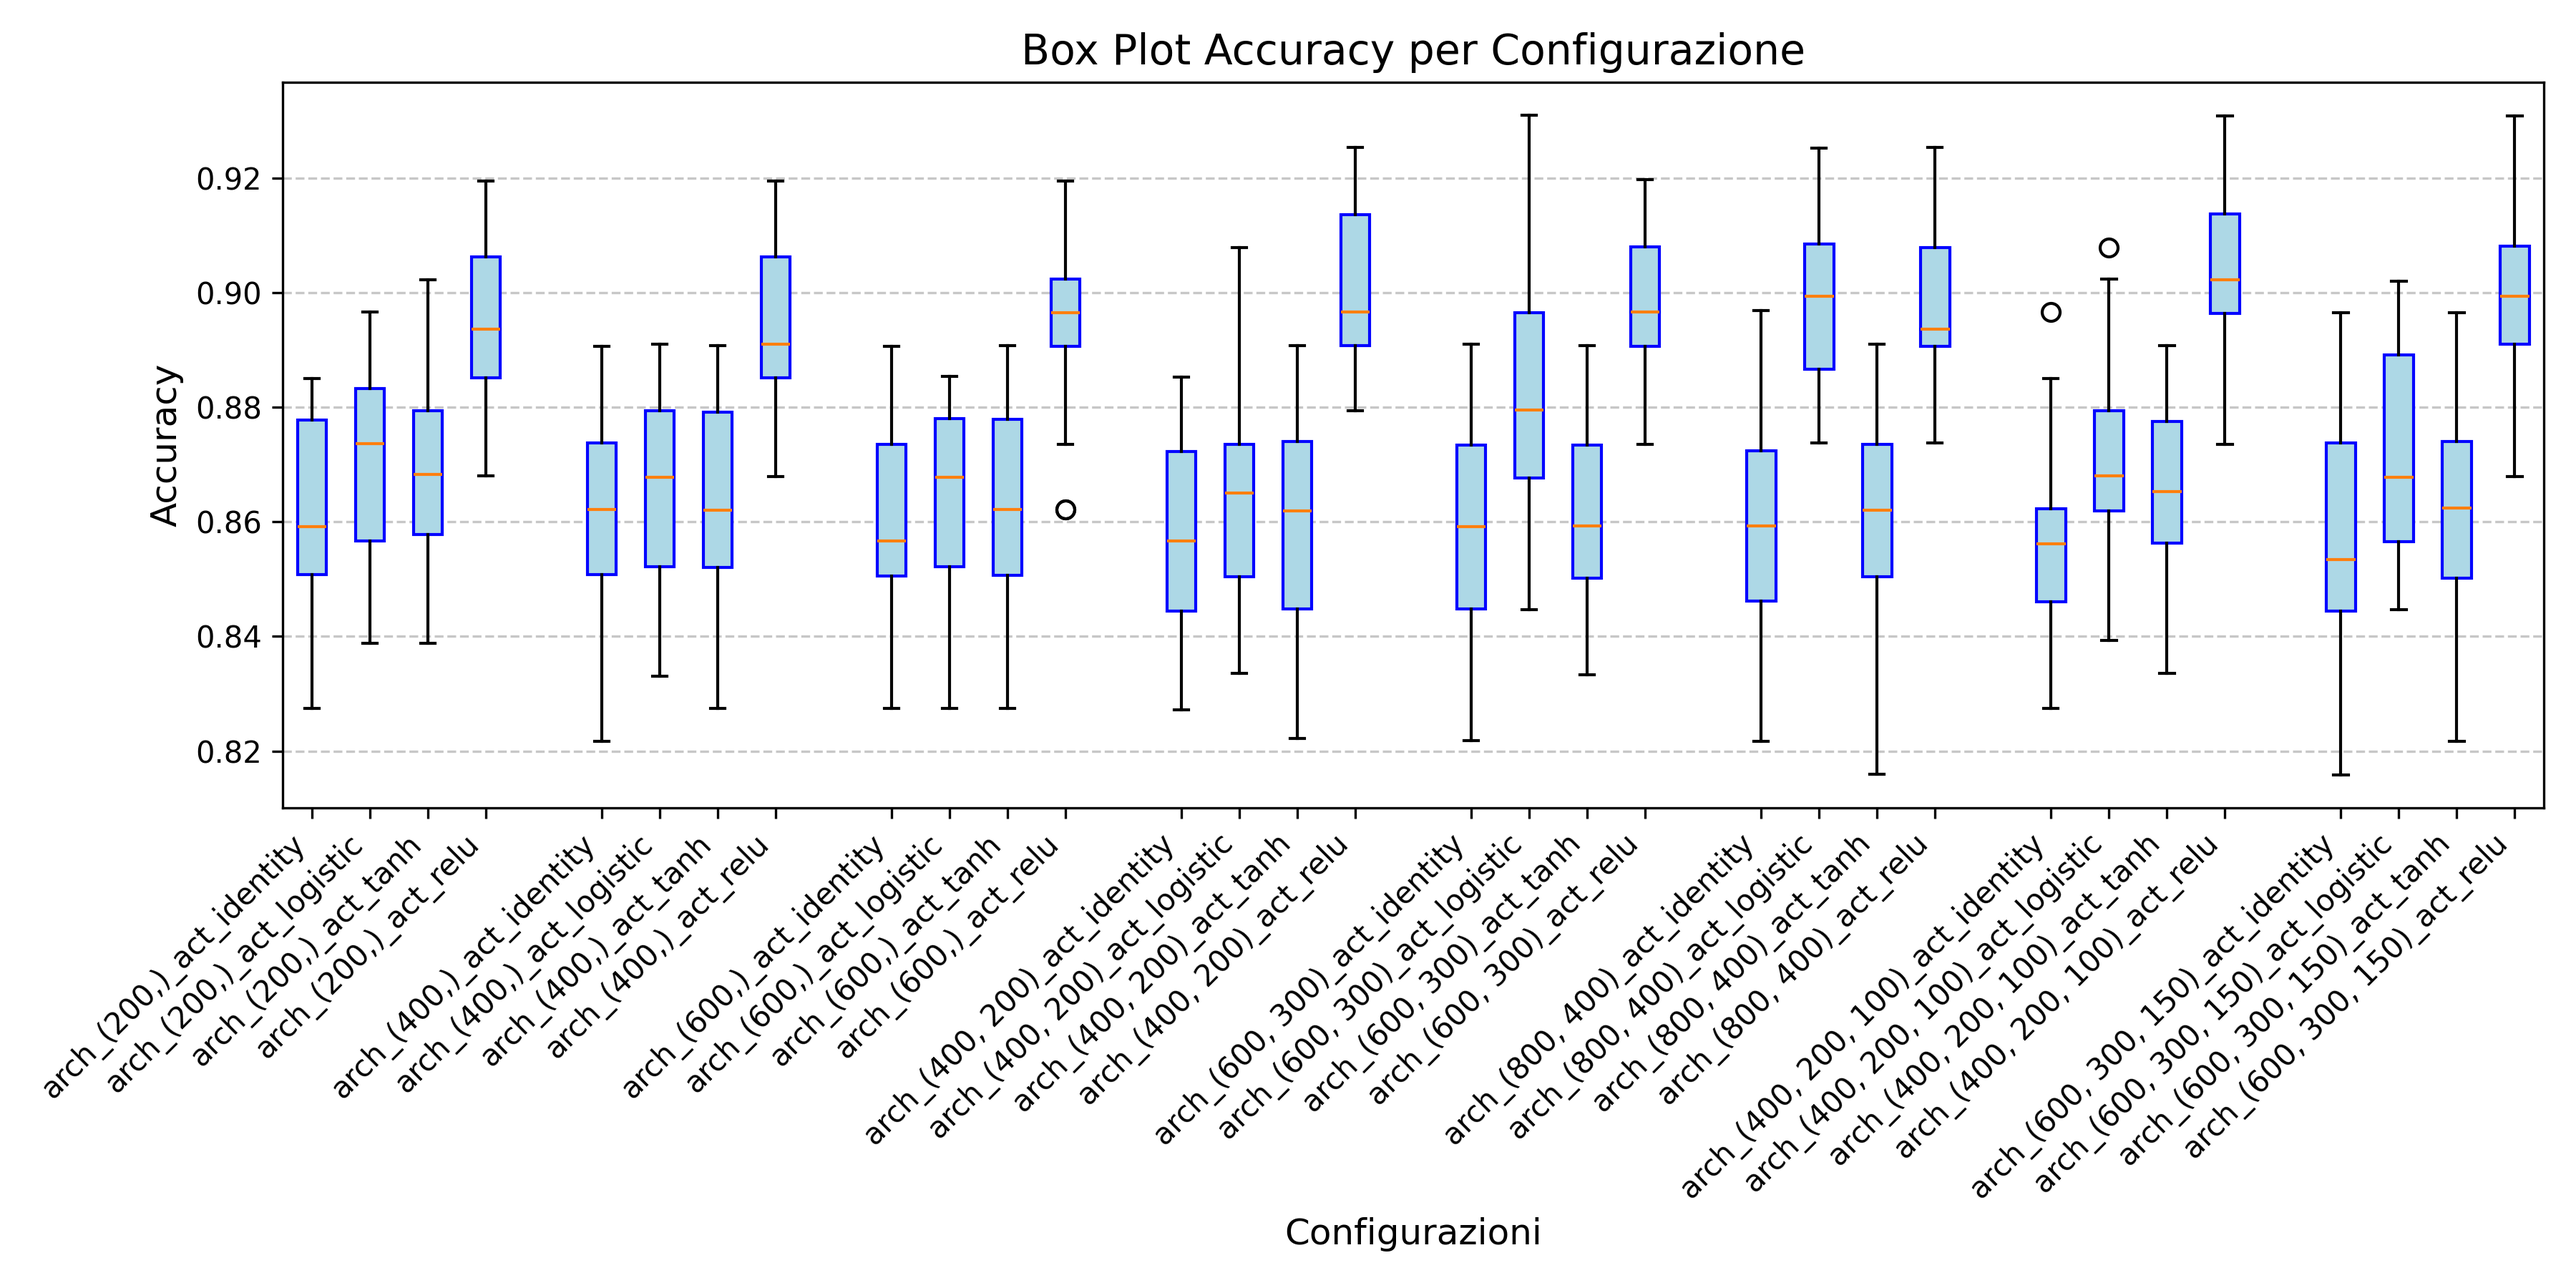
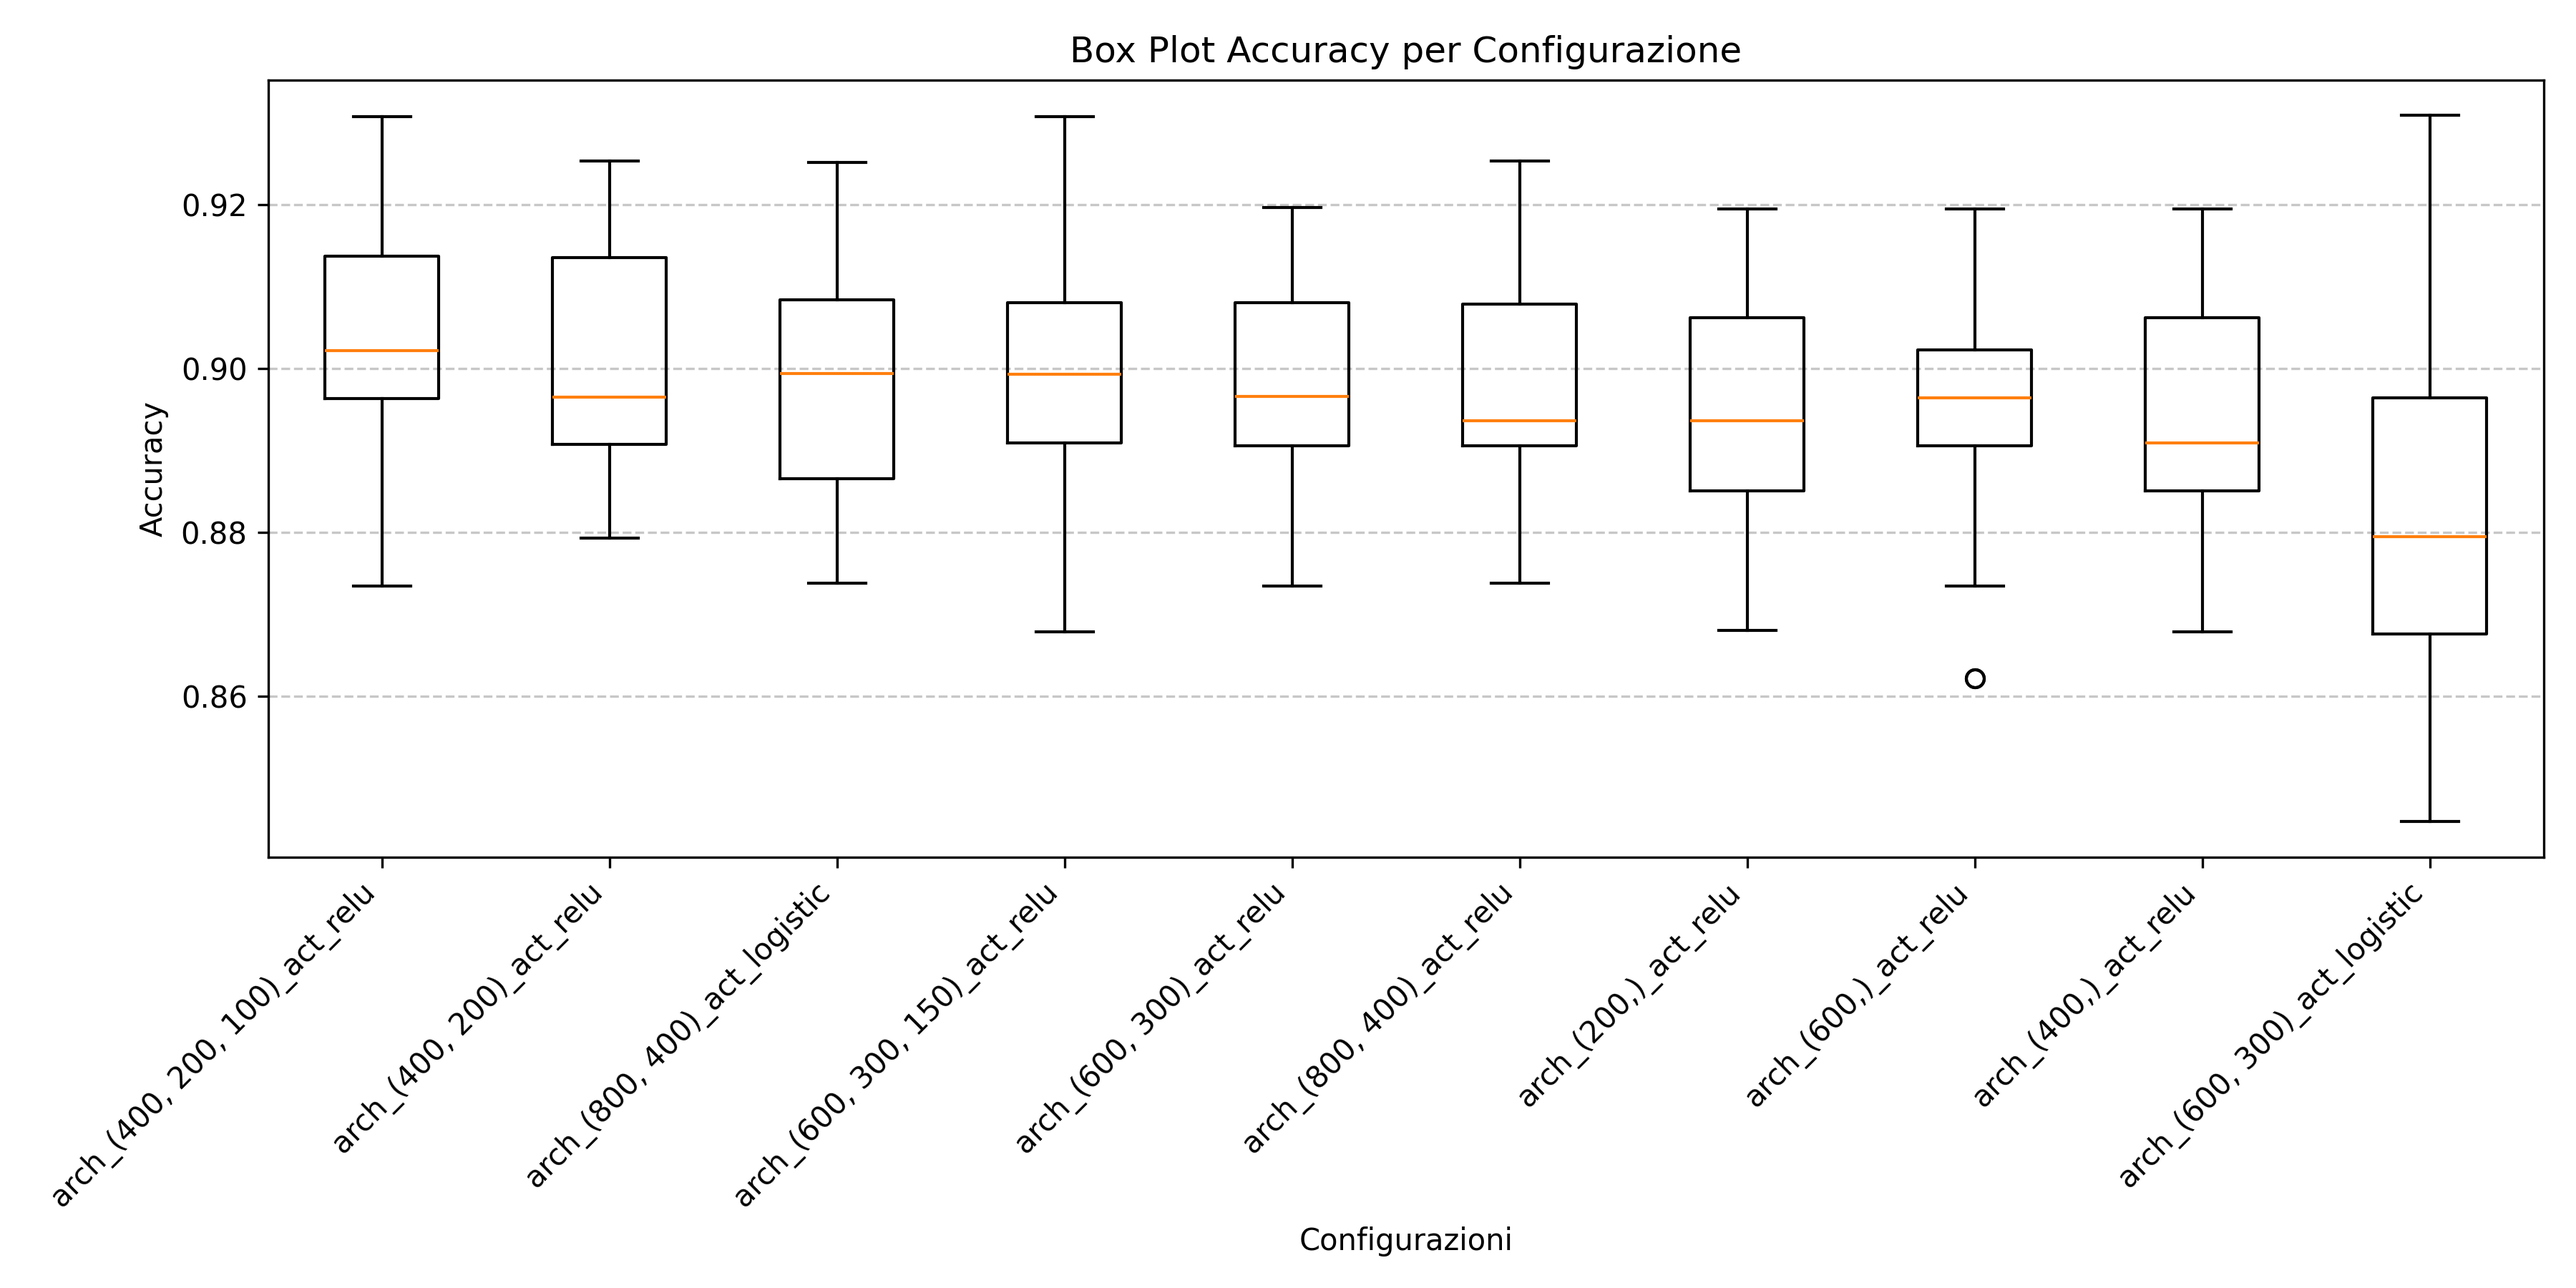
top 10 config extraction + aggiustamento grafici

diff --git a/Tesina 3/personal_lib/visualization.py b/Tesina 3/personal_lib/visualization.py
@@ -373,91 +373,64 @@ def plot_cv_prediction_stability(y_true_list, y_pred_list, n_runs=30, scenario =
 
 #============ OTHER SCENARIOS PLOTS ============
 
-import matplotlib.pyplot as plt
-
-def plot_configs_box_plot(results: Dict, scenario="_", save_path="_accuracy_boxplot", title="Box Plot Accuracy per Configurazione"):
+def plot_configs_box_plot(results : Dict,scenario ="_",save_path ="_accuracy_boxplot", title="Box Plot Accuracy per Configurazione"):
     """
-    Grafica i box plot dell'accuracy con uno spazio ogni 4 configurazioni
+    Grafica i box plot dell'accuracy di ogni configurazione
     """
     configs = []
     test_scores = []
 
     for config, cv_logger in results.items():
+
         configs.append(config)
-        test_scores.append(cv_logger.test_scores)
+        test_score = cv_logger.test_scores
+        test_scores.append(test_score)
 
-    # Aggiunge uno spazio ogni 4 tick
-    positions = []
-    current_pos = 1  
-    for i in range(len(configs)):
-        # Ogni 4 elementi aggiunge uno spazio extra
-        if i > 0 and i % 4 == 0:
-            current_pos += 1
-        positions.append(current_pos)
-        current_pos += 1
-    
+    plt.figure(figsize=(12,6))
 
-    plt.figure(figsize=(12, 6))
+    plt.boxplot(test_scores)
 
-    # Usiamo il parametro 'positions' per dire a matplotlib dove disegnare i box
-    plt.boxplot(test_scores, positions=positions, patch_artist=True, 
-                boxprops=dict(facecolor='lightblue', color='blue'))
+    plt.xticks(range(1,len(configs)+1), configs, rotation=45, ha='right')
 
-    # Allineiamo i tick alle nuove posizioni calcolate
-    plt.xticks(positions, configs, rotation=45, ha='right')
-
-    plt.title(title, fontsize=14)
-    plt.xlabel('Configurazioni', fontsize=12)
-    plt.ylabel('Accuracy', fontsize=12)
+    plt.title(title)
+    plt.xlabel('Configurazioni')
+    plt.ylabel('Accuracy')
     plt.grid(axis='y', linestyle='--', alpha=0.7)
 
     plt.tight_layout() 
-    plt.savefig("Immagini/" + scenario + "/" + save_path, dpi=300)
+    plt.savefig("Immagini/"+scenario+"/"+save_path, dpi=300)
     plt.show()
 
-
-
-def plot_configs_exec_time(results: Dict, scenario="_", save_path="_exec_time", title="Tempi di Esecuzione per Configurazione"):
+def plot_configs_exec_time(results : Dict, scenario ="_",save_path ="_exec_time",title ="Tempi di Esecuzione pe Configurazione"):
     """
-    Grafica i tempi di esecuzione con uno spazio ogni 4 configurazioni.
+    Grafica i tempi di esecuzione di ogni configurazione
     """
+
     exec_times = []
     configs = []
 
     for config, cv_logger in results.items():
+
         configs.append(config)
         summary = cv_logger.get_summary()
-        exec_times.append(summary['total_time'])
+        exec_time = summary['total_time']
 
-    # Aggiunge uno spazio ogni 4 tick
-    indices = []
-    current_pos = 0
-    for i in range(len(configs)):
-        # Ogni 4 elementi aggiunge uno spazio extra
-        if i > 0 and i % 4 == 0:
-            current_pos += 1 
-        indices.append(current_pos)
-        current_pos += 1
-    # -----------------------------------
+        exec_times.append(exec_time)
 
-    plt.figure(figsize=(12, 6)) 
-    
+    plt.figure(figsize=(10,6))
     dynamic_font_size = max(6, min(12, 120 / len(configs)))
-    
-    # Usa 'indices' invece di 'configs' per posizionare le barre
-    bars = plt.bar(indices, exec_times, color='mediumseagreen', edgecolor='black', width=0.8)
-    
-    plt.bar_label(bars, padding=3, fmt='%.2f', fontsize=dynamic_font_size, fontweight='bold')
+    bars = plt.bar(configs,exec_times, color='mediumseagreen', edgecolor='black')
+    plt.bar_label(bars,padding=3, fmt='%.2f', fontsize=dynamic_font_size, fontweight='bold')
 
-    plt.title(title, fontsize=14)
+    plt.title("Tempo medio di esecuzione per configurazione", fontsize=14)
     plt.xlabel("Configurazioni", fontsize=12)
     plt.ylabel("Tempo di esecuzione (sec)", fontsize=12)
 
-    # Imposta i tick nelle posizioni calcolate con i nomi delle configurazioni
-    plt.xticks(indices, configs, rotation=45, ha="right", fontsize=dynamic_font_size)
+    plt.xticks(rotation=45, ha="right")
+
 
     plt.tight_layout()
-    plt.savefig("Immagini/" + scenario + "/" + save_path, dpi=300)
+    plt.savefig("Immagini/"+scenario+"/"+save_path, dpi=300)
     plt.show()
 
 

diff --git a/Tesina 3/personal_lib/utils.py b/Tesina 3/personal_lib/utils.py
@@ -2,7 +2,7 @@ import pandas as pd
 import pickle
 import numpy as np
 
-from typing import Tuple
+from typing import Dict, Tuple
 
 from sklearn.neural_network import MLPClassifier
 from sklearn.metrics import (accuracy_score, confusion_matrix, roc_auc_score)
@@ -120,3 +120,22 @@ def get_mlp_config(scenario : str ="architecture",SEED : int =42):
                         max_iter=1
                     )
     return mlp_configs
+
+def get_top_n_config (results : Dict, n : int = 10):
+
+    mean_acc = {}
+
+    for config, cv_logger in results.items():
+        summary=cv_logger.get_summary()
+        acc = summary['mean_test_acc']
+        mean_acc[config]=acc
+
+    top_n_acc = dict(sorted(mean_acc.items(), key=lambda item: item[1], reverse=True)[:n])
+
+    top_n_results = {config: results[config] for config in top_n_acc.keys()}
+    
+    return top_n_results
+    
+
+    
+   

diff --git a/Tesina 3/main_2.py b/Tesina 3/main_2.py
@@ -213,7 +213,9 @@ if __name__ == "__main__":
             plot_cv_prediction_stability(y_test,y_pred,scenario=EXPERIMENT+WITH_SEL)
 
         else:
-
-            plot_configs_box_plot(cv_logger,scenario=EXPERIMENT+WITH_SEL)
-            plot_configs_exec_time(cv_logger,scenario=EXPERIMENT+WITH_SEL)
+            
+            top_n_config = get_top_n_config(cv_logger)
+            print(top_n_config)
+            plot_configs_box_plot(top_n_config,scenario=EXPERIMENT+WITH_SEL)
+            plot_configs_exec_time(top_n_config,scenario=EXPERIMENT+WITH_SEL)
     
